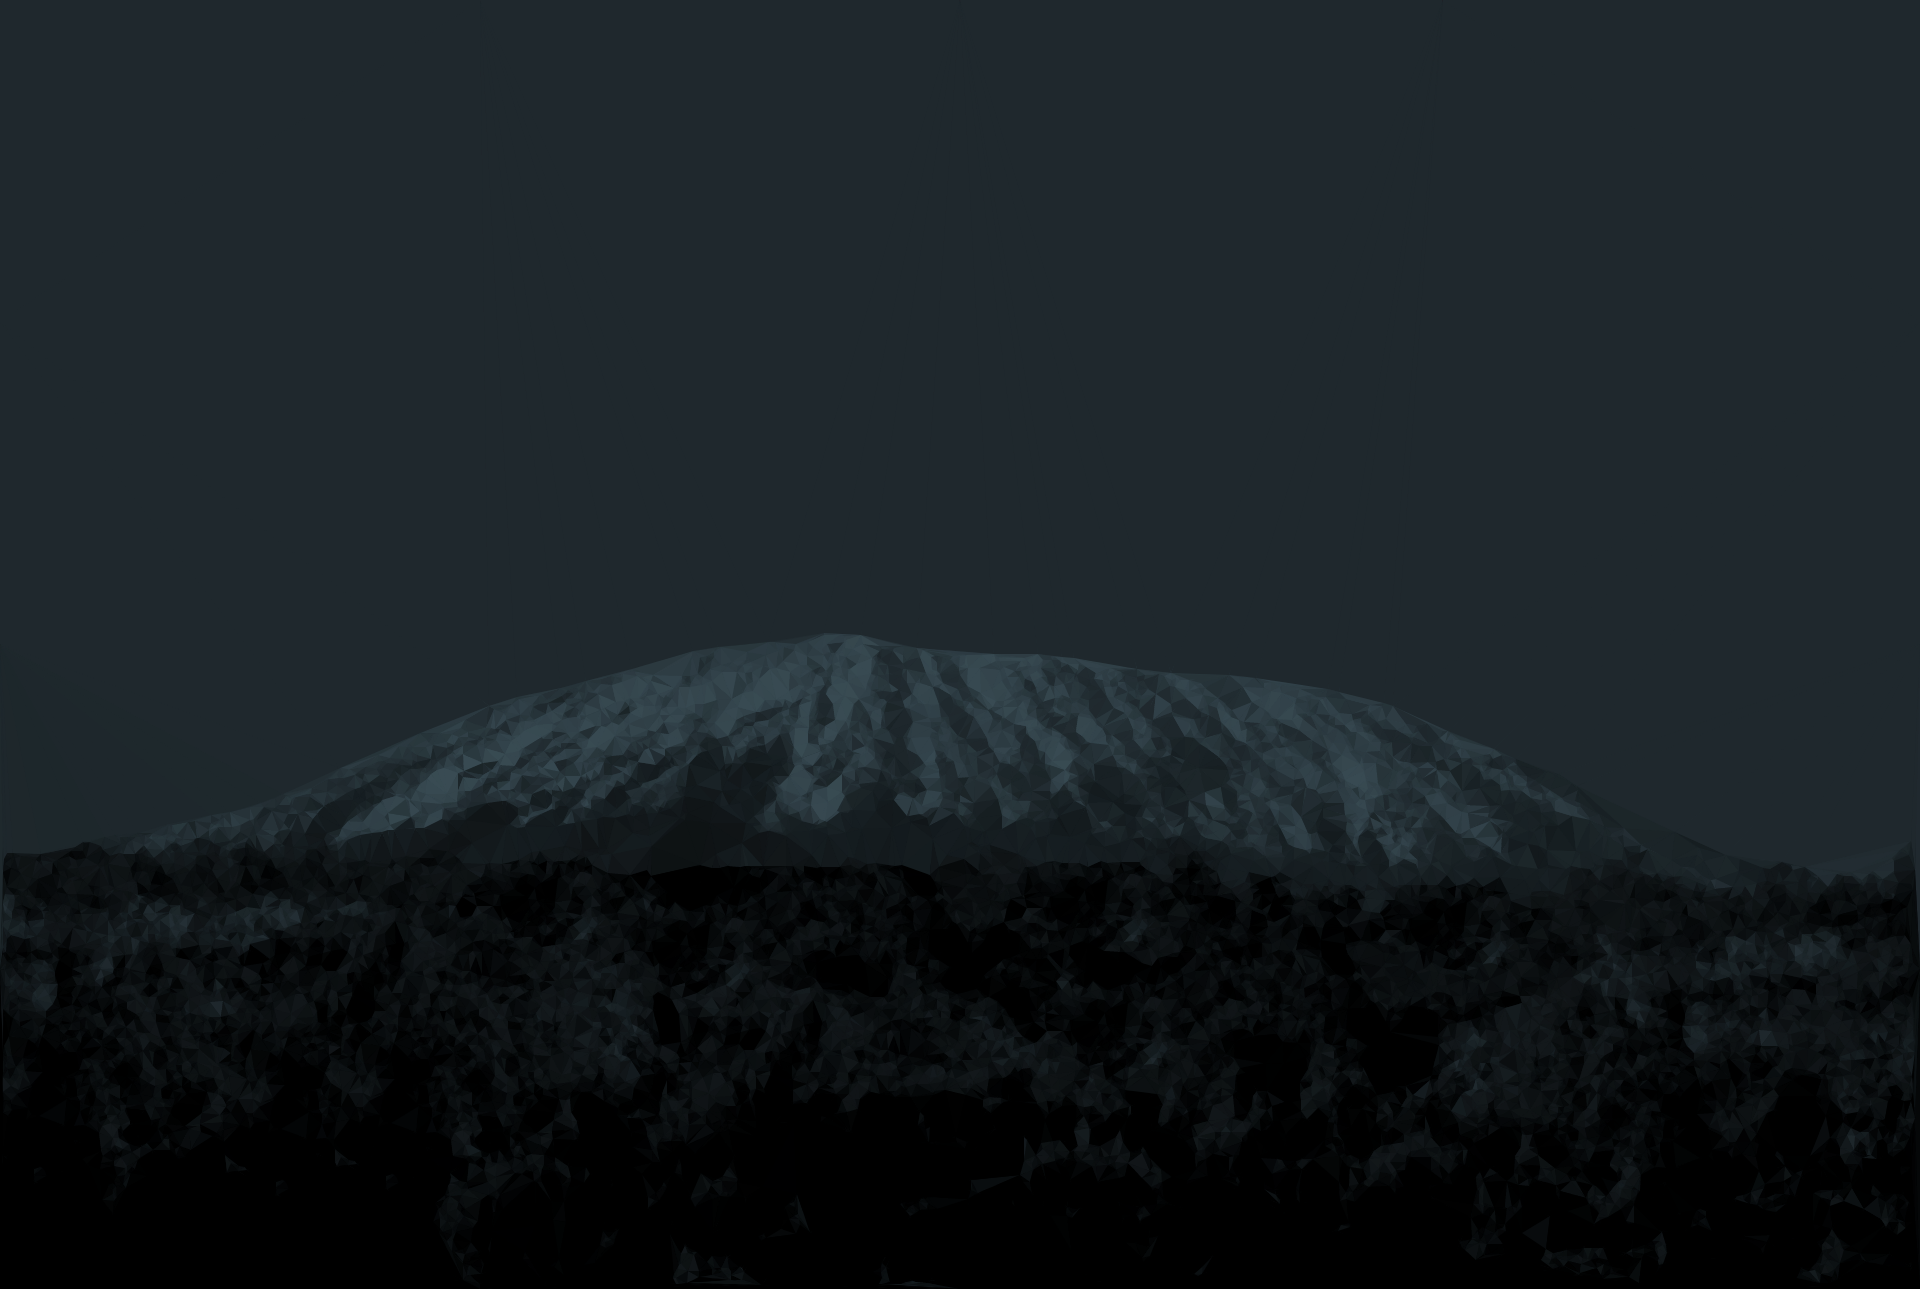
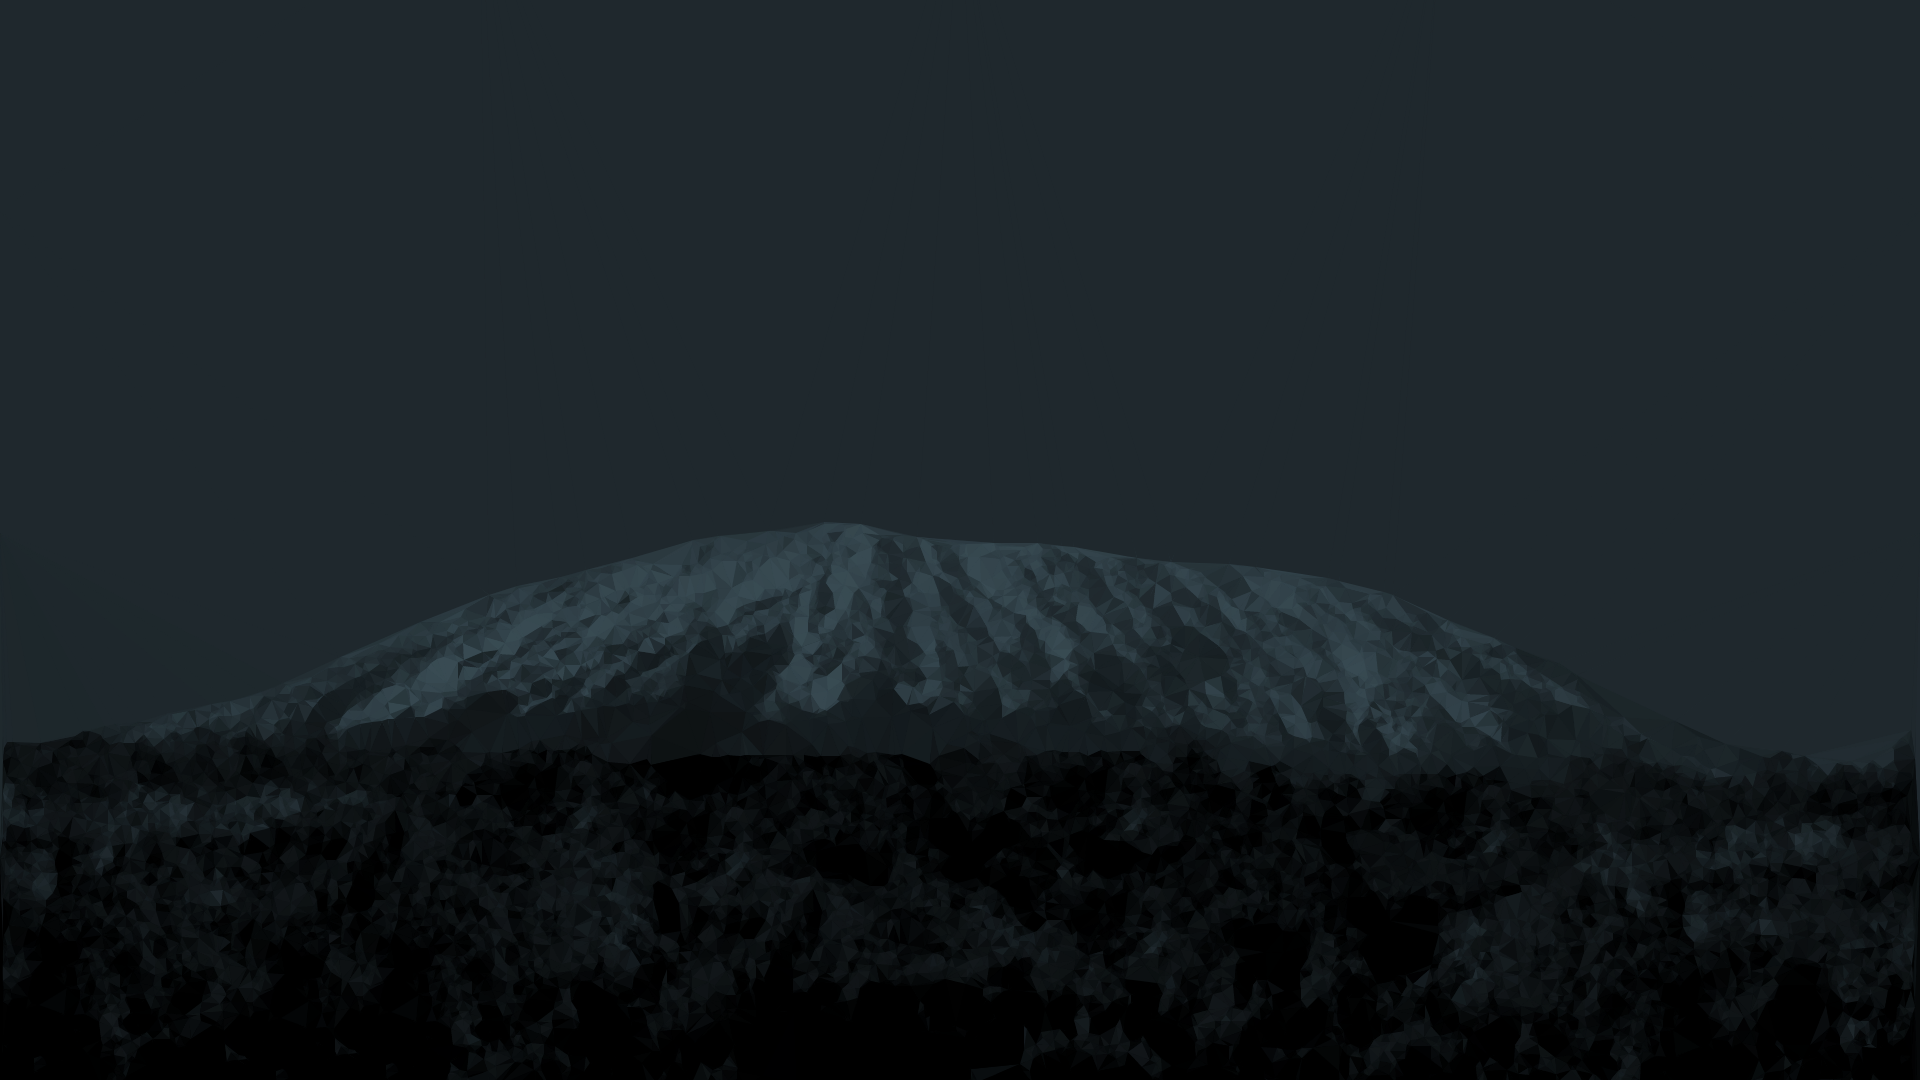
splashy wally

diff --git a/plasma/look-and-feel/org.kde.adaptabreathluna.desktop/contents/splash/Splash.qml b/plasma/look-and-feel/org.kde.adaptabreathluna.desktop/contents/splash/Splash.qml
@@ -21,7 +21,7 @@ import QtQuick 2.5
 
 Image {
     id: root
-    source: "/usr/share/wallpapers/AdaptaBreath/contents/images/polimanjaro.png"
+    source: "/usr/share/wallpapers/AdaptaBreath/contents/images/polimanjarolt.png"
     fillMode: Image.PreserveAspectCrop
 
     property int stage
